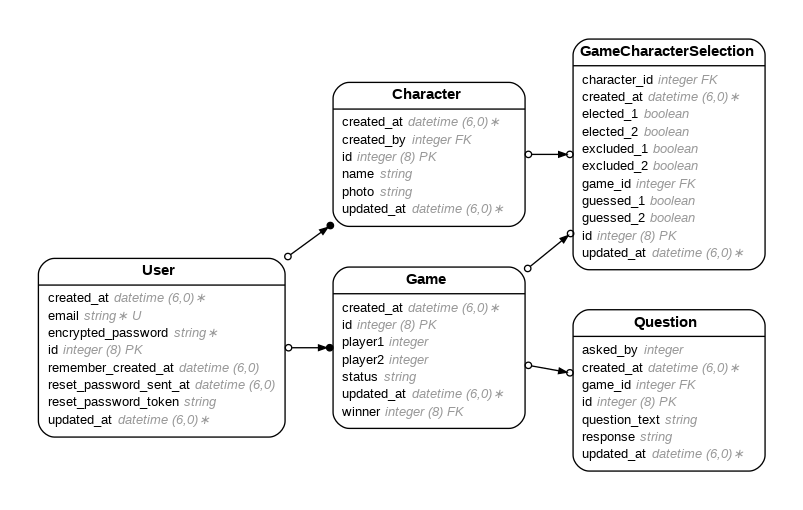
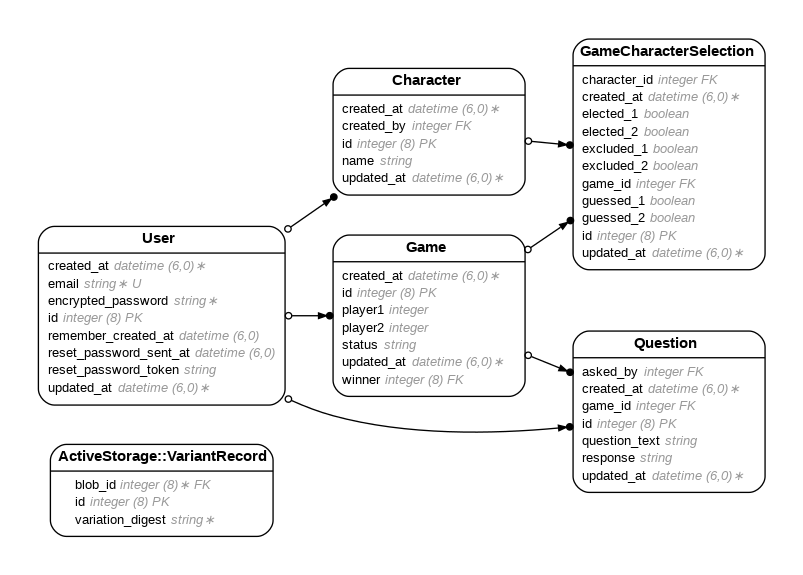
done with the characters portion!

Changed region(s): [[0.0311, 0.1176, 0.9651, 0.9412], [0.6538, 0.0588, 0.9651, 0.5294], [0.3425, 0.8235, 0.3736, 0.8529]]

diff --git a/app/controllers/characters_controller.rb b/app/controllers/characters_controller.rb
@@ -1,9 +1,8 @@
 class CharactersController < ApplicationController
   def index
     matching_characters = Character.all
-    @list_of_characters = matching_characters.order({ :name => :desc })
-
-    render({ :template => "character_templates/index" })
+    @list_of_characters = Character.order(name: :desc)
+    render({ template: "character_templates/index" })
   end
 
   def show
@@ -17,28 +16,58 @@ class CharactersController < ApplicationController
 
   def create
     c = Character.new
-    c.name= params.fetch("name")
-    c.image = params.fetch("image")
-    c.save
-    redirect_to("/characters")
+    c.name = params.fetch("name")
+    c.user = current_user
+    if params[:photo].present?
+      c.photo.attach(params[:photo])
+    else
+      puts "No photo found"
+    end
+  
+    if c.save
+      puts "Character saved successfully."
+      redirect_to("/characters")
+    else
+      puts "Error saving character: #{c.errors.full_messages}"
+      render({ template: "character_templates/index" })
+    end
   end
 
   def destroy
-    the_id = params.fetch("an_id")
+    the_id = params.fetch("the_id")
     matching_record = Character.where({ :id => the_id})
     the_character = matching_record.at(0)
-    the_character.destroy
-    redirect_to("/characters")
+    if the_character.user == current_user
+      the_character.destroy
+      redirect_to("/characters")
+    else
+      redirect_to("/characters", alert: "You can only delete characters you created.")
+    end
   end
 
   def update
-    c_id = params.fetch("the_id")
-    matching_record = Character.where({ :id => d_id})
-    the_character = matching_record.at(0)
-
-    the_character.name = params.fetch("name")
-    the_character.image = params.fetch("image")
-    the_character.save
-    redirect_to("/characters/#{the_character.id}")
+    the_id = params.fetch("the_id")
+    the_character = Character.find_by(id: the_id)
+  
+    if the_character.user == current_user
+      # Update the name
+      the_character.update(name: params.fetch("name"))
+  
+      # Check if a new photo is uploaded
+      if params[:photo].present?
+        # Purge the old photo if it's being replaced
+        the_character.photo.purge # Removes the existing photo from storage
+        the_character.photo.attach(params[:photo]) 
+      end
+  
+      # Save the character with the new photo if provided
+      if the_character.save
+        redirect_to("/characters/#{the_character.id}")
+      else
+        render({ template: "character_templates/edit" })
+      end
+    else
+      redirect_to("/characters", alert: "You can only edit characters you created.")
+    end
   end
 end

diff --git a/db/migrate/20250303205912_create_active_storage_tables.active_storage.rb b/db/migrate/20250303205912_create_active_storage_tables.active_storage.rb
@@ -1,0 +1,57 @@
+# This migration comes from active_storage (originally 20170806125915)
+class CreateActiveStorageTables < ActiveRecord::Migration[7.0]
+  def change
+    # Use Active Record's configured type for primary and foreign keys
+    primary_key_type, foreign_key_type = primary_and_foreign_key_types
+
+    create_table :active_storage_blobs, id: primary_key_type do |t|
+      t.string   :key,          null: false
+      t.string   :filename,     null: false
+      t.string   :content_type
+      t.text     :metadata
+      t.string   :service_name, null: false
+      t.bigint   :byte_size,    null: false
+      t.string   :checksum
+
+      if connection.supports_datetime_with_precision?
+        t.datetime :created_at, precision: 6, null: false
+      else
+        t.datetime :created_at, null: false
+      end
+
+      t.index [ :key ], unique: true
+    end
+
+    create_table :active_storage_attachments, id: primary_key_type do |t|
+      t.string     :name,     null: false
+      t.references :record,   null: false, polymorphic: true, index: false, type: foreign_key_type
+      t.references :blob,     null: false, type: foreign_key_type
+
+      if connection.supports_datetime_with_precision?
+        t.datetime :created_at, precision: 6, null: false
+      else
+        t.datetime :created_at, null: false
+      end
+
+      t.index [ :record_type, :record_id, :name, :blob_id ], name: :index_active_storage_attachments_uniqueness, unique: true
+      t.foreign_key :active_storage_blobs, column: :blob_id
+    end
+
+    create_table :active_storage_variant_records, id: primary_key_type do |t|
+      t.belongs_to :blob, null: false, index: false, type: foreign_key_type
+      t.string :variation_digest, null: false
+
+      t.index [ :blob_id, :variation_digest ], name: :index_active_storage_variant_records_uniqueness, unique: true
+      t.foreign_key :active_storage_blobs, column: :blob_id
+    end
+  end
+
+  private
+    def primary_and_foreign_key_types
+      config = Rails.configuration.generators
+      setting = config.options[config.orm][:primary_key_type]
+      primary_key_type = setting || :primary_key
+      foreign_key_type = setting || :bigint
+      [primary_key_type, foreign_key_type]
+    end
+end

diff --git a/db/schema.rb b/db/schema.rb
@@ -10,13 +10,40 @@
 #
 # It's strongly recommended that you check this file into your version control system.
 
-ActiveRecord::Schema[7.1].define(version: 2025_03_03_154519) do
+ActiveRecord::Schema[7.1].define(version: 2025_03_03_210014) do
   # These are extensions that must be enabled in order to support this database
   enable_extension "plpgsql"
 
+  create_table "active_storage_attachments", force: :cascade do |t|
+    t.string "name", null: false
+    t.string "record_type", null: false
+    t.bigint "record_id", null: false
+    t.bigint "blob_id", null: false
+    t.datetime "created_at", null: false
+    t.index ["blob_id"], name: "index_active_storage_attachments_on_blob_id"
+    t.index ["record_type", "record_id", "name", "blob_id"], name: "index_active_storage_attachments_uniqueness", unique: true
+  end
+
+  create_table "active_storage_blobs", force: :cascade do |t|
+    t.string "key", null: false
+    t.string "filename", null: false
+    t.string "content_type"
+    t.text "metadata"
+    t.string "service_name", null: false
+    t.bigint "byte_size", null: false
+    t.string "checksum"
+    t.datetime "created_at", null: false
+    t.index ["key"], name: "index_active_storage_blobs_on_key", unique: true
+  end
+
+  create_table "active_storage_variant_records", force: :cascade do |t|
+    t.bigint "blob_id", null: false
+    t.string "variation_digest", null: false
+    t.index ["blob_id", "variation_digest"], name: "index_active_storage_variant_records_uniqueness", unique: true
+  end
+
   create_table "characters", force: :cascade do |t|
     t.integer "created_by"
-    t.string "photo"
     t.string "name"
     t.datetime "created_at", null: false
     t.datetime "updated_at", null: false
@@ -65,4 +92,6 @@ ActiveRecord::Schema[7.1].define(version: 2025_03_03_154519) do
     t.index ["reset_password_token"], name: "index_users_on_reset_password_token", unique: true
   end
 
+  add_foreign_key "active_storage_attachments", "active_storage_blobs", column: "blob_id"
+  add_foreign_key "active_storage_variant_records", "active_storage_blobs", column: "blob_id"
 end

diff --git a/config/routes.rb b/config/routes.rb
@@ -1,13 +1,15 @@
 Rails.application.routes.draw do
-
   devise_for :users
-  root to: "pages#home" 
+  root to: "pages#home"
 
-  get("/characters", { :controller => "characters", :action => "index" })
-  get("/characters/:path_id", { :controller => "characters", :action => "show" })
-  post("/insert_character_record", { :controller => "characters", :action => "create" })
-  get("/delete_characters/:an_id", { :controller => "characters", :action => "destroy" })
-  post("/modify_character_record:the_id", { :controller => "characters", :action => "update" })
+  get("/characters", { controller: "characters", action: "index" })
+  get("/characters/:path_id", { controller: "characters", action: "show" })
+  post("/insert_character_record", { controller: "characters", action: "create" })
+  get("/delete_character/:the_id", { controller: "characters", action: "destroy" })
+  post("/modify_character_record/:the_id", { controller: "characters", action: "update" }) 
 
-  
+  # Mount rails_db only in development
+  #if Rails.env.development?
+   # mount RailsDb::Engine, at: "/rails_db", as: 'rails_db'
+ # end
 end

diff --git a/app/models/character.rb b/app/models/character.rb
@@ -5,11 +5,11 @@
 #  id         :bigint           not null, primary key
 #  created_by :integer
 #  name       :string
-#  photo      :string
 #  created_at :datetime         not null
 #  updated_at :datetime         not null
 #
 class Character < ApplicationRecord
+  has_one_attached :photo
   belongs_to :user, required: true, class_name: "User", foreign_key: "created_by"
   has_many  :selections, class_name: "GameCharacterSelection", foreign_key: "character_id", dependent: :destroy
 end

diff --git a/db/migrate/20250303210014_remove_photo_from_characters.rb b/db/migrate/20250303210014_remove_photo_from_characters.rb
@@ -1,0 +1,5 @@
+class RemovePhotoFromCharacters < ActiveRecord::Migration[7.1]
+  def change
+    remove_column :characters, :photo, :string
+  end
+end
